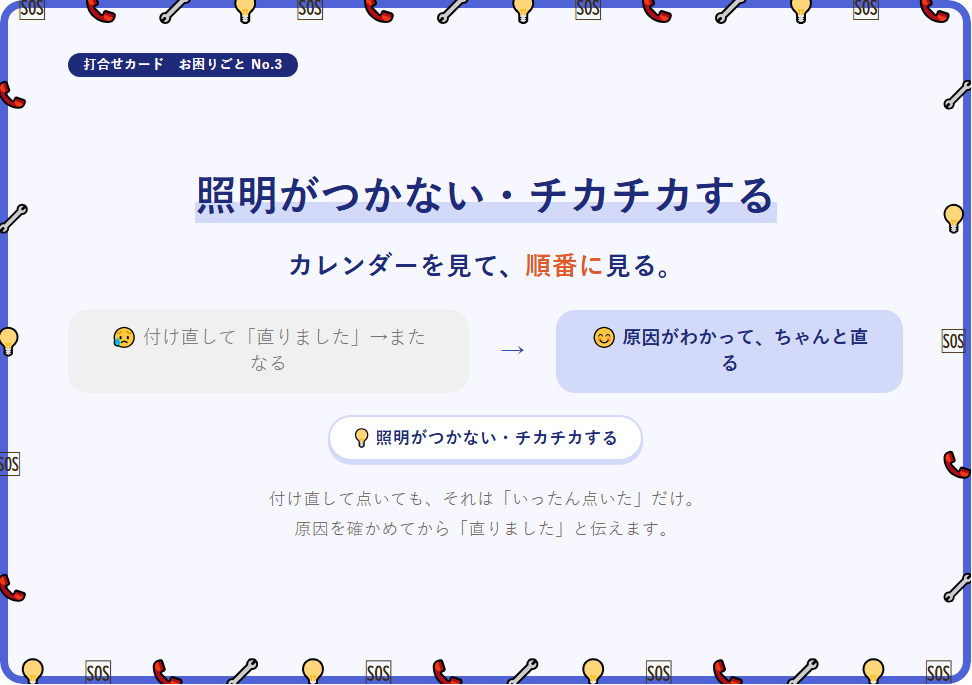
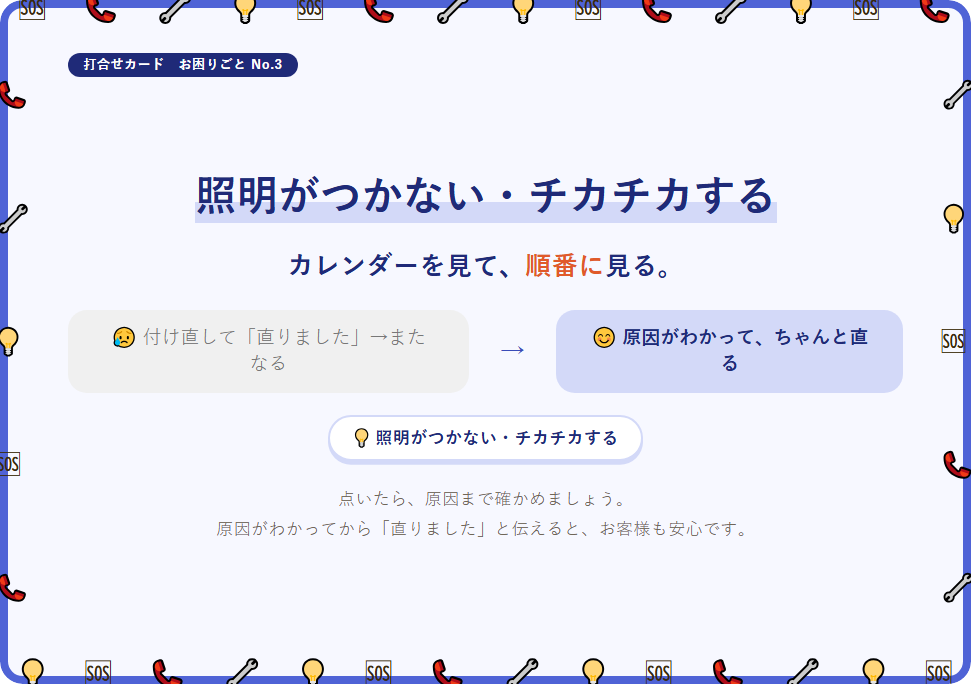
お困りごと：責める言い方をやめ、前向きな言い方に
Claude-Session: https://claude.ai/code/session_01SZNrdcyrN7aKEt1o21LvYk

Changed region(s): [[0.216, 0.7051, 0.7407, 0.7971]]

diff --git a/card-trouble-3.html b/card-trouble-3.html
@@ -104,7 +104,7 @@
     <p class="msg">カレンダーを見て、<b>順番に</b>見る。</p>
     <div class="vs"><div class="ng">😥 付け直して「直りました」→またなる</div><div class="ar">→</div><div class="ok">😊 原因がわかって、ちゃんと直る</div></div>
     <div class="chips"><span>💡 照明がつかない・チカチカする</span></div>
-    <p class="one">付け直して点いても、それは「いったん点いた」だけ。<br>原因を確かめてから「直りました」と伝えます。</p>
+    <p class="one">点いたら、原因まで確かめましょう。<br>原因がわかってから「直りました」と伝えると、お客様も安心です。</p>
   </div>
 </div>
 
@@ -119,7 +119,7 @@
   <div class="back">
     <div class="box">
       <h2>現地で見る順番</h2>
-      <div class="roles"><div class="role" style="--rc:#d9ebfa;--rk:#164a7a"><span class="e">1⃣</span><div><div class="n">壁スイッチとリモコン</div><div class="x">スイッチは入れたままか。リモコンの電池とチャンネル</div></div></div><div class="role" style="--rc:#dcefd2;--rk:#2b5a1e"><span class="e">2⃣</span><div><div class="n">引掛シーリング</div><div class="x">ゆるみはないか。付け直して点いても、決めつけない</div></div></div><div class="role" style="--rc:#fff1c2;--rk:#7a4d10"><span class="e">3⃣</span><div><div class="n">器具の年数</div><div class="x">LEDも10年ほどで電源部が弱り、チカチカする</div></div></div><div class="role" style="--rc:#e8dcf7;--rk:#4a2a78"><span class="e">4⃣</span><div><div class="n">ブレーカー・配線</div><div class="x">配線の疑いがあるときは、工事スタッフへ</div></div></div></div>
+      <div class="roles"><div class="role" style="--rc:#d9ebfa;--rk:#164a7a"><span class="e">1⃣</span><div><div class="n">壁スイッチとリモコン</div><div class="x">スイッチは入れたままか。リモコンの電池とチャンネル</div></div></div><div class="role" style="--rc:#dcefd2;--rk:#2b5a1e"><span class="e">2⃣</span><div><div class="n">引掛シーリング</div><div class="x">ゆるみはないか。点いたら、ほかの原因もあわせて見る</div></div></div><div class="role" style="--rc:#fff1c2;--rk:#7a4d10"><span class="e">3⃣</span><div><div class="n">器具の年数</div><div class="x">LEDも10年ほどで電源部が弱り、チカチカする</div></div></div><div class="role" style="--rc:#e8dcf7;--rk:#4a2a78"><span class="e">4⃣</span><div><div class="n">ブレーカー・配線</div><div class="x">配線の疑いがあるときは、工事スタッフへ</div></div></div></div>
 
     </div>
     <div class="box">

diff --git a/tools/cards-data.js b/tools/cards-data.js
@@ -786,7 +786,7 @@ module.exports = [
         one:'いったん直っても、原因がわからなければ、また同じことが起きます。<br>お客様が安心できるまでが、お困りごとの対応です。' },
   how:{ h:'大事にすること',
         roles:[ {ic:'👀',n:'現状確認をいちばんに',t:'今の状態を、しっかり見る',bg:'#d9ebfa',k:'#164a7a'},
-                {ic:'🔍',n:'原因を確かめる',t:'いったん直っただけで「直りました」と言わない',bg:'#dcefd2',k:'#2b5a1e'},
+                {ic:'🔍',n:'原因を確かめる',t:'原因がわかってから「直りました」と伝える',bg:'#dcefd2',k:'#2b5a1e'},
                 {ic:'🙏',n:'わからなければ正直に',t:'その場で相談。お客様にもそのまま伝える',bg:'#fff1c2',k:'#7a4d10'},
                 {ic:'🤝',n:'安心できるまで',t:'「また起きたら、すぐ連絡ください」',bg:'#e8dcf7',k:'#4a2a78'} ] },
   what:{ h:'やること',
@@ -812,10 +812,10 @@ module.exports = [
   why:{ msg:'カレンダーを見て、<b>順番に</b>見る。',
         ng:'😥 付け直して「直りました」→またなる', ok:'😊 原因がわかって、ちゃんと直る',
         chips:['💡 照明がつかない・チカチカする'],
-        one:'付け直して点いても、それは「いったん点いた」だけ。<br>原因を確かめてから「直りました」と伝えます。' },
+        one:'点いたら、原因まで確かめましょう。<br>原因がわかってから「直りました」と伝えると、お客様も安心です。' },
   how:{ h:'現地で見る順番',
         roles:[ {ic:'1⃣',n:'壁スイッチとリモコン',t:'スイッチは入れたままか。リモコンの電池とチャンネル',bg:'#d9ebfa',k:'#164a7a'},
-                {ic:'2⃣',n:'引掛シーリング',t:'ゆるみはないか。付け直して点いても、決めつけない',bg:'#dcefd2',k:'#2b5a1e'},
+                {ic:'2⃣',n:'引掛シーリング',t:'ゆるみはないか。点いたら、ほかの原因もあわせて見る',bg:'#dcefd2',k:'#2b5a1e'},
                 {ic:'3⃣',n:'器具の年数',t:'LEDも10年ほどで電源部が弱り、チカチカする',bg:'#fff1c2',k:'#7a4d10'},
                 {ic:'4⃣',n:'ブレーカー・配線',t:'配線の疑いがあるときは、工事スタッフへ',bg:'#e8dcf7',k:'#4a2a78'} ] },
   what:{ h:'確かめることと、その場の判断',

diff --git a/card-trouble-1.html b/card-trouble-1.html
@@ -119,7 +119,7 @@
   <div class="back">
     <div class="box">
       <h2>大事にすること</h2>
-      <div class="roles"><div class="role" style="--rc:#d9ebfa;--rk:#164a7a"><span class="e">👀</span><div><div class="n">現状確認をいちばんに</div><div class="x">今の状態を、しっかり見る</div></div></div><div class="role" style="--rc:#dcefd2;--rk:#2b5a1e"><span class="e">🔍</span><div><div class="n">原因を確かめる</div><div class="x">いったん直っただけで「直りました」と言わない</div></div></div><div class="role" style="--rc:#fff1c2;--rk:#7a4d10"><span class="e">🙏</span><div><div class="n">わからなければ正直に</div><div class="x">その場で相談。お客様にもそのまま伝える</div></div></div><div class="role" style="--rc:#e8dcf7;--rk:#4a2a78"><span class="e">🤝</span><div><div class="n">安心できるまで</div><div class="x">「また起きたら、すぐ連絡ください」</div></div></div></div>
+      <div class="roles"><div class="role" style="--rc:#d9ebfa;--rk:#164a7a"><span class="e">👀</span><div><div class="n">現状確認をいちばんに</div><div class="x">今の状態を、しっかり見る</div></div></div><div class="role" style="--rc:#dcefd2;--rk:#2b5a1e"><span class="e">🔍</span><div><div class="n">原因を確かめる</div><div class="x">原因がわかってから「直りました」と伝える</div></div></div><div class="role" style="--rc:#fff1c2;--rk:#7a4d10"><span class="e">🙏</span><div><div class="n">わからなければ正直に</div><div class="x">その場で相談。お客様にもそのまま伝える</div></div></div><div class="role" style="--rc:#e8dcf7;--rk:#4a2a78"><span class="e">🤝</span><div><div class="n">安心できるまで</div><div class="x">「また起きたら、すぐ連絡ください」</div></div></div></div>
 
     </div>
     <div class="box">
